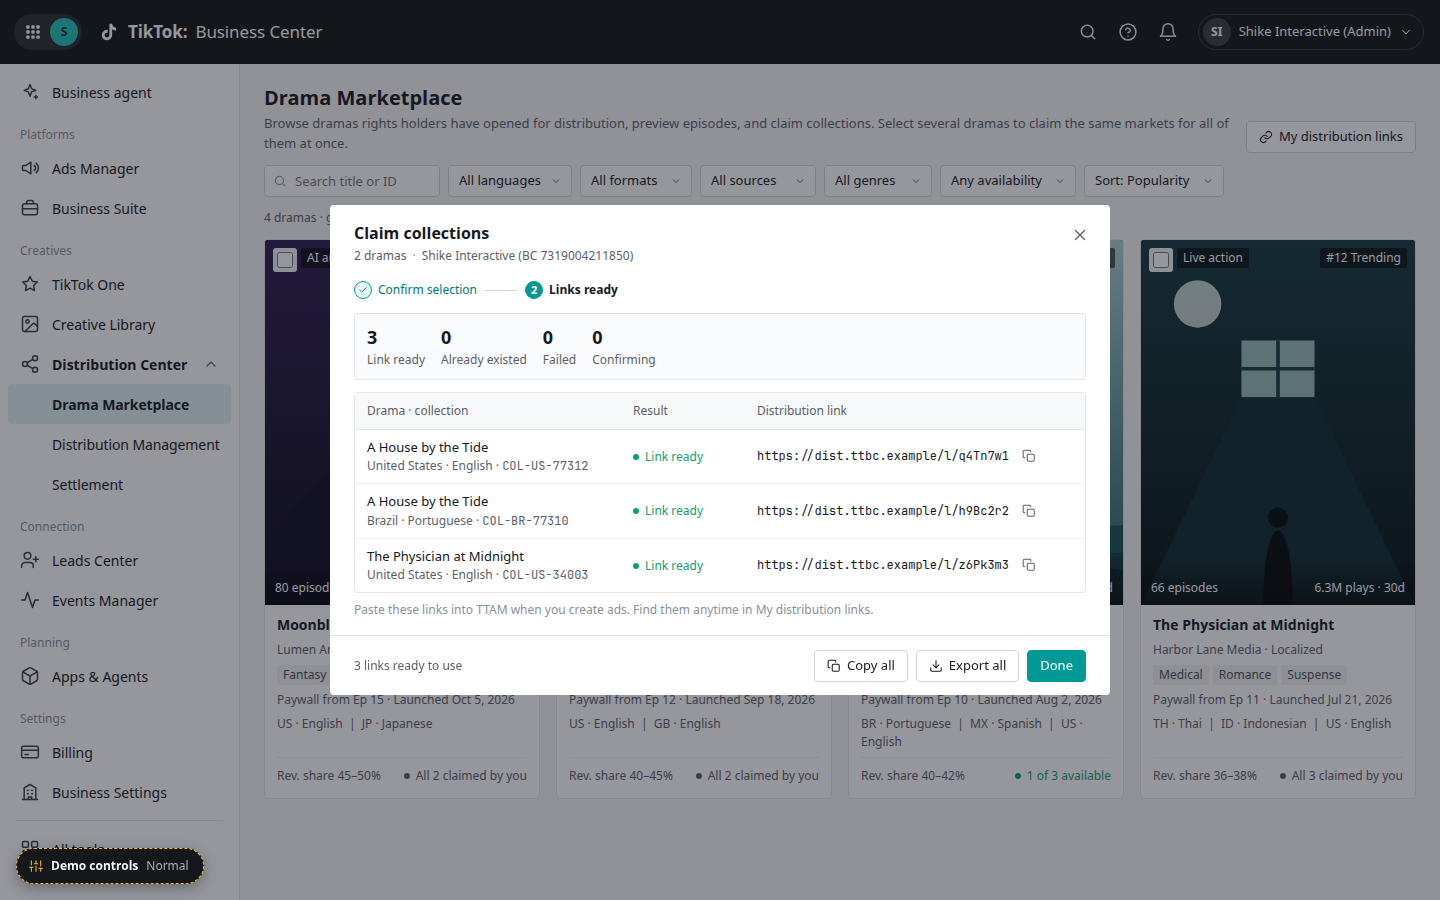
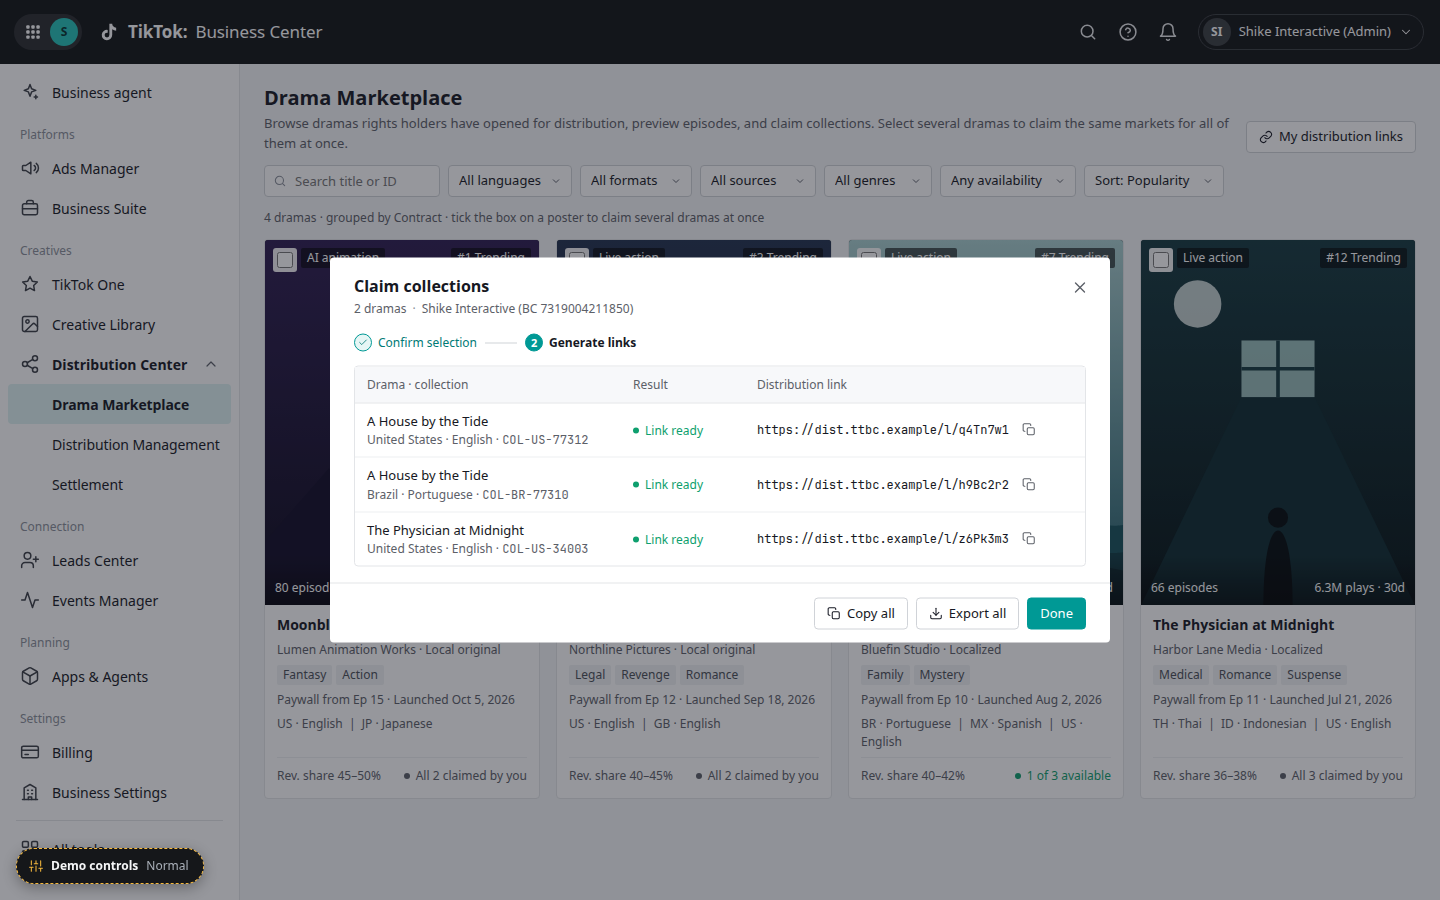
Sync prototype: claim flow step 2 renamed to Generate links, refresh screenshots

Changed region(s): [[0.2188, 0.2178, 0.7812, 0.7778]]

diff --git a/index.html b/index.html
@@ -902,7 +902,7 @@ function playToggle(){
   updatePlayer();
 }
 
-/* Claim flow: Confirm selection -> Links ready (single drama or bulk) */
+/* Claim flow: Confirm selection -> Generate links (single drama or bulk) */
 const CF = {ctrs:[], keys:new Set(), results:null};
 const mkKey = c => c.market + ' · ' + c.lang;
 function openClaimFlow(ctrs, keys){ CF.ctrs = ctrs.slice(); CF.keys = new Set(keys || []); CF.results = null; openModal(claimFlowModal); }
@@ -927,7 +927,7 @@ function claimPlan(){
     return {ctr:id, items, missing};
   });
 }
-function stepper(n){ return `<div class="steps"><span class="${n === 1 ? 'on' : 'done'}"><i>${n === 1 ? '1' : ic('check', 10)}</i>Confirm selection</span><span class="sep"></span><span class="${n === 2 ? 'on' : ''}"><i>2</i>Links ready</span></div>`; }
+function stepper(n){ return `<div class="steps"><span class="${n === 1 ? 'on' : 'done'}"><i>${n === 1 ? '1' : ic('check', 10)}</i>Confirm selection</span><span class="sep"></span><span class="${n === 2 ? 'on' : ''}"><i>2</i>Generate links</span></div>`; }
 function claimFlowModal(){ return CF.results ? linksReadyModal() : confirmSelModal(); }
 function confirmSelModal(){
   const M = CF.ctrs.length; const opts = flowOptions(); const plan = claimPlan();
@@ -971,18 +971,16 @@ const FLOW_R = {ready:['ok','Link ready'], existed:['muted','Already existed'], 
 const flowLinks = () => CF.results.filter(x => (x.r === 'ready' || x.r === 'existed') && linkOf(x.col)).map(x => linkOf(x.col));
 function linksReadyModal(){
   const R = CF.results; const n = k => R.filter(x => x.r === k).length;
-  const unknown = n('unknown'), failed = n('failed'), usable = flowLinks().length;
+  const unknown = n('unknown'), failed = n('failed');
   const rows = R.map(x => { const c = colOf(x.col); const l = linkOf(x.col);
     const linkCell = l && (x.r === 'ready' || x.r === 'existed') ? `<div class="linkbox"><span class="mono">${l.url}</span>${copyBtn(l.url, 'Link copied')}</div>${x.why ? '<div class="cell-sub" style="white-space:normal">' + x.why + '</div>' : ''}`
       : `<span class="cell-sub" style="white-space:normal">${x.why || (x.r === 'unknown' ? 'Waiting for confirmation. The link is generated automatically once confirmed.' : '')}</span>`;
     return `<tr><td><div class="cell-title">${ctrOf(c.ctr).title}</div><div class="cell-sub">${colLabel(c)} · <span class="mono">${c.id}</span></div></td><td>${stChip(FLOW_R, x.r)}</td><td>${linkCell}</td></tr>`; }).join('');
   return {title:'Claim collections', width:780, sub:`<span>${plural(new Set(R.map(x => colOf(x.col).ctr)).size, 'drama')}</span><span class="faint">·</span><span>${BCS.main.name} (BC ${BCS.main.id})</span>`,
     body:`${stepper(2)}
-      <div class="res-sum"><div><b>${n('ready')}</b>Link ready</div><div><b>${n('existed')}</b>Already existed</div><div><b>${failed}</b>Failed</div><div><b>${unknown}</b>Confirming</div></div>
       ${unknown ? banner('warn', 'We\u2019re still confirming with the rights holder system. <b>Don\u2019t submit again</b>; a repeat request won\u2019t create a duplicate claim or link.', '', 'clock') + '<div style="height:12px"></div>' : ''}
-      <div class="panel"><table class="tbl"><thead><tr><th>Drama · collection</th><th style="width:124px">Result</th><th style="width:340px">Distribution link</th></tr></thead><tbody>${rows}</tbody></table></div>
-      <div class="faint" style="font-size:12px;margin-top:8px">Paste these links into TTAM when you create ads. Find them anytime in My distribution links.</div>`,
-    footer:`<span class="grow">${usable ? plural(usable, 'link') + ' ready to use' : 'No links ready yet'}</span>${unknown ? '<button class="btn" data-act="cf-recheck">' + ic('refresh', 14) + 'Check again</button>' : ''}${failed ? '<button class="btn" data-act="cf-retry">Retry failed</button>' : ''}<button class="btn" data-act="cf-copy">${ic('copy', 14)}Copy all</button><button class="btn" data-act="cf-export">${ic('download', 14)}Export all</button><button class="btn btn-primary" data-act="close-modal">Done</button>`};
+      <div class="panel"><table class="tbl"><thead><tr><th>Drama · collection</th><th style="width:124px">Result</th><th style="width:340px">Distribution link</th></tr></thead><tbody>${rows}</tbody></table></div>`,
+    footer:`<span class="grow"></span>${unknown ? '<button class="btn" data-act="cf-recheck">' + ic('refresh', 14) + 'Check again</button>' : ''}${failed ? '<button class="btn" data-act="cf-retry">Retry failed</button>' : ''}<button class="btn" data-act="cf-copy">${ic('copy', 14)}Copy all</button><button class="btn" data-act="cf-export">${ic('download', 14)}Export all</button><button class="btn btn-primary" data-act="close-modal">Done</button>`};
 }
 
 /* ---------- Distribution Management ---------- */

diff --git a/README.md b/README.md
@@ -10,7 +10,7 @@ Three business modules, all under **Creatives → Distribution Center** in the l
 
 - **Drama Marketplace** — browse distributable dramas and claim collections, one drama at a time or in bulk: tick the checkbox on several drama cards, then **Claim collections** to claim across multiple contracts at once.
 
-Claiming is a two-step flow: **Confirm selection** (pick the collections to claim) → **Links ready** (distribution links are generated, with **Copy all** / **Export all** for use in TTAM).
+Claiming is a two-step flow: **Confirm selection** (pick the collections to claim) → **Generate links** (distribution links are generated, with **Copy all** / **Export all** for use in TTAM).
 - **Distribution Management** — link view and by-drama view; copy/export links, monitor link validity and auto-pause results.
 - **Settlement** — settlement statements, confirmation, and payout logs.
 
